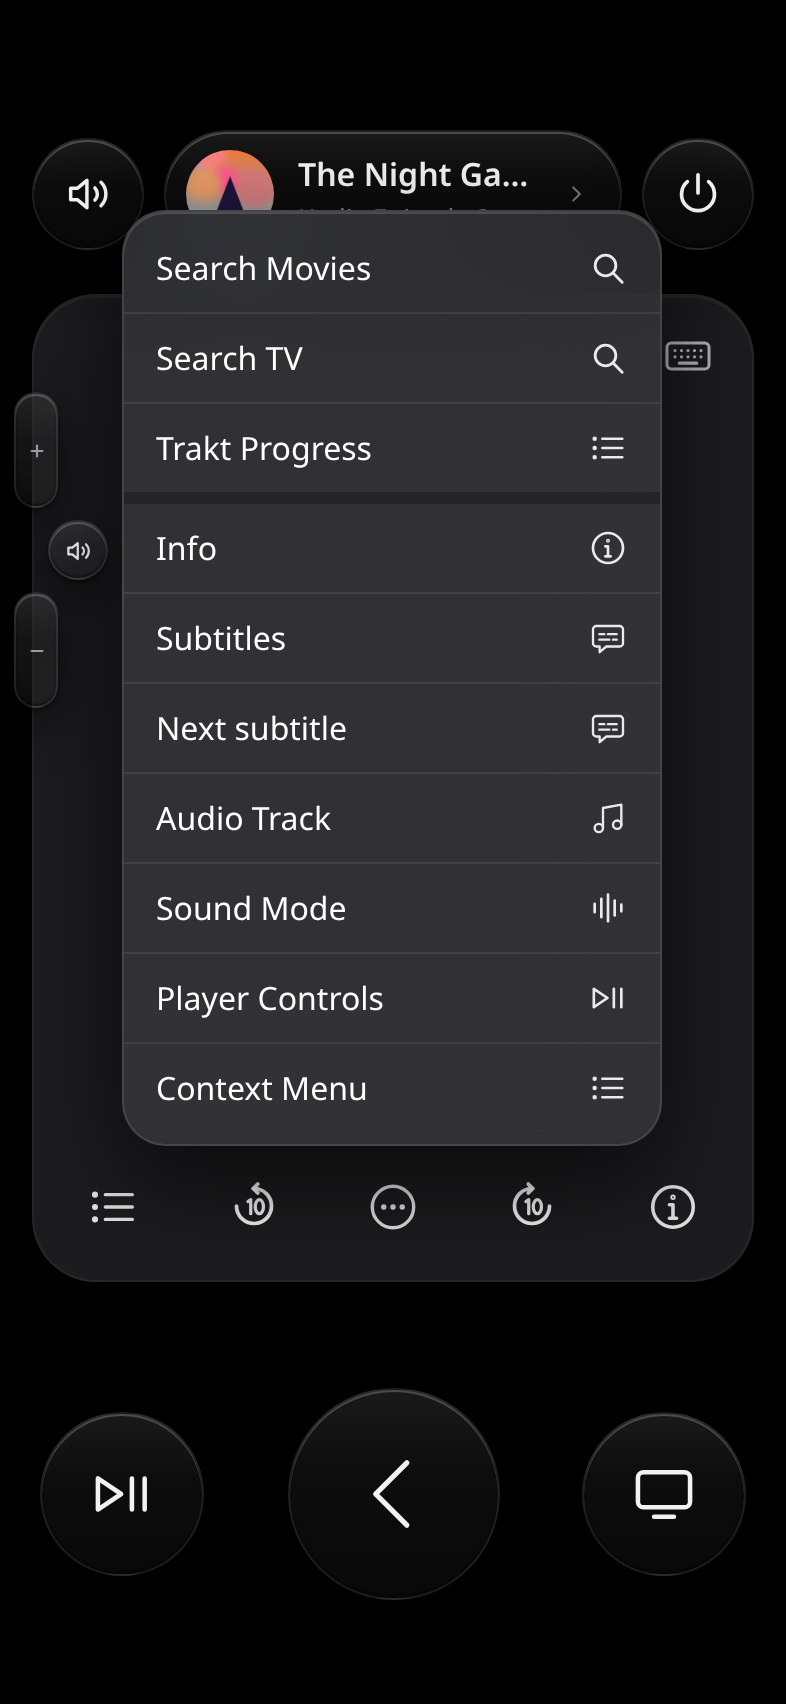
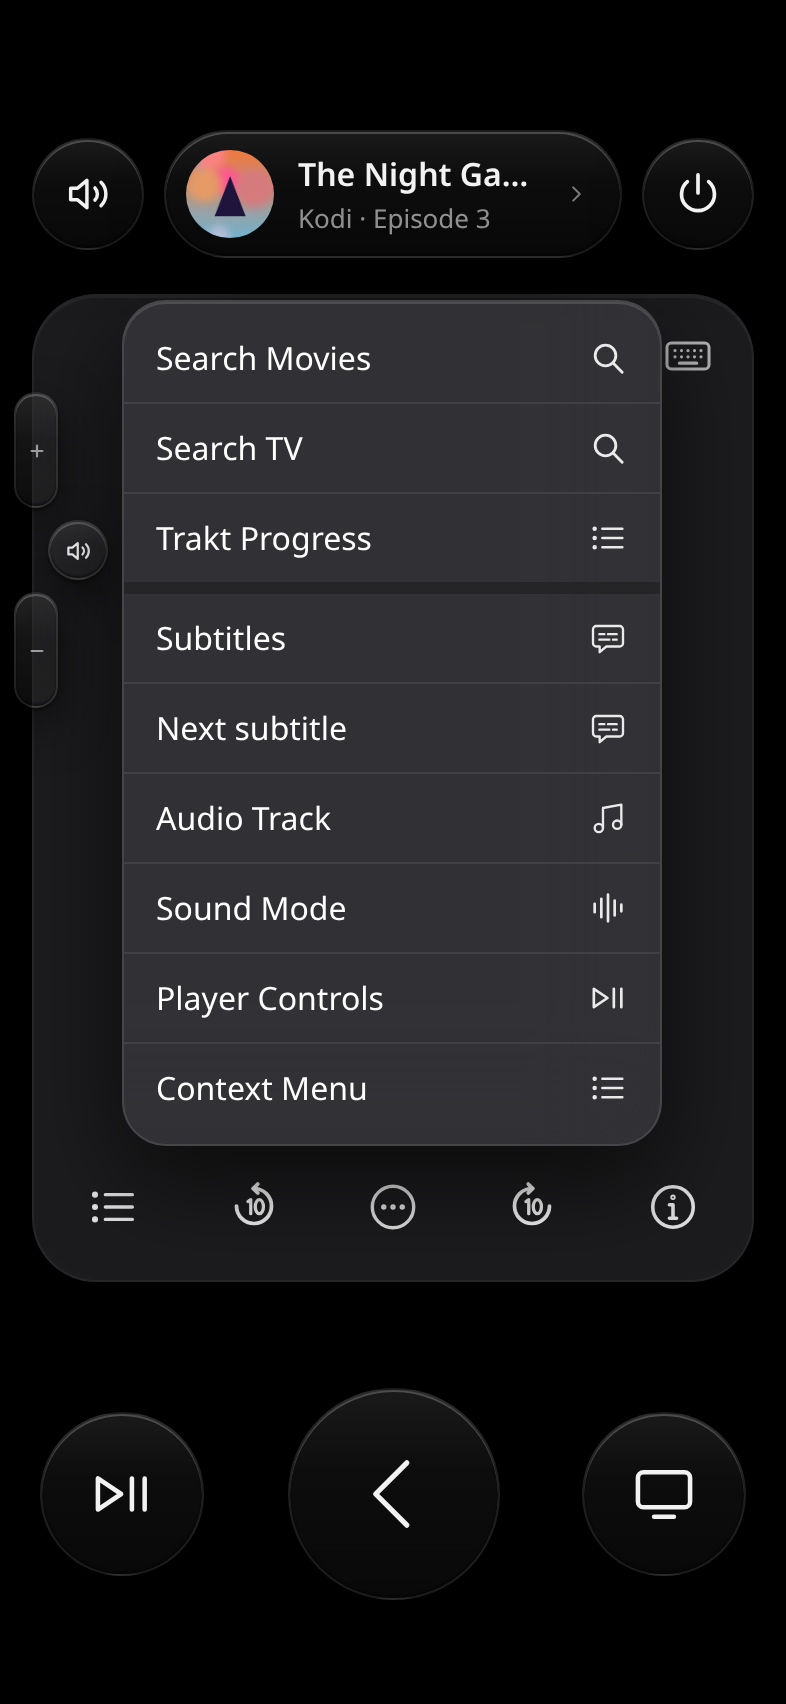
Grok Bot: 0.2.2 - no duplicate Info: while a player shows the bottom-row Info button (no CH, e.g. Kodi) 'info' is left out of its More menu (default or custom more list); CH players (Apple TV, LG) keep Info in More; info_button: false puts it back; tests IB4/IB9-IB11, O1/O3/O16-O18/SC9 updated; READ

diff --git a/test/test.js b/test/test.js
@@ -321,9 +321,10 @@ function ptr(w, el, type, x = 100, y = 100) {
 
   // ---- O: more menu + channels -----------------------------------------------------------
   const ids = (p) => H.moreItems(p, AVRS).map((i) => i.id);
-  check("O1 Kodi default more items", eq(ids(SP({})), ["info", "subtitles", "subtitles_hold", "audio_track", "sound_mode", "osd", "context_menu"]), ids(SP({})));
+  // 0.2.2 (Grok Bot, 11 Oct 2026): Kodi's Info is on the row, so More starts at subtitles
+  check("O1 Kodi default more items (no info: it's the row button)", eq(ids(SP({})), ["subtitles", "subtitles_hold", "audio_track", "sound_mode", "osd", "context_menu"]), ids(SP({})));
   check("O2 sound mode item only when available", !ids(SP({ sound_mode: false })).includes("sound_mode"));
-  check("O3 custom list incl. a service item", eq(H.moreItems(SP({ more: ["info", { name: "Lights", service: "scene.turn_on", target: { entity_id: "scene.movie" } }] }), AVRS).map((i) => [i.name, i.steps]),
+  check("O3 custom list incl. a service item", eq(H.moreItems(SP({ info_button: false, more: ["info", { name: "Lights", service: "scene.turn_on", target: { entity_id: "scene.movie" } }] }), AVRS).map((i) => [i.name, i.steps]),
     [["Info", [["kodi", "call_method", { entity_id: "media_player.kodi", method: "Input.Info" }]]], ["Lights", [["scene", "turn_on", { entity_id: "scene.movie" }]]]]));
   check("O4 more: false", H.moreItems(SP({ more: false }), AVRS).length === 0);
   check("O5 validation of more", bad({ players: [{ entity: "media_player.k", more: [{ name: "x" }] }] }) && bad({ players: [{ entity: "media_player.k", more: "info" }] }));
@@ -355,12 +356,13 @@ function ptr(w, el, type, x = 100, y = 100) {
   // more -> sound mode, more -> info
   m.$(".more").click(); await sleep(10);
   const more = [...m.card.shadowRoot.querySelectorAll(".menu .mi")];
-  check("O16 more menu (Kodi)", eq(more.map((b) => b.textContent), ["Info", "Subtitles", "Next subtitle", "Audio Track", "Sound Mode", "Player Controls", "Context Menu"]), more.map((b) => b.textContent));
-  more[4].click(); await sleep(10);
+  // 0.2.2 (Grok Bot, 11 Oct 2026): no Info in Kodi's More (it's the row button, see IB2/IB4)
+  check("O16 more menu (Kodi, no Info)", eq(more.map((b) => b.textContent), ["Subtitles", "Next subtitle", "Audio Track", "Sound Mode", "Player Controls", "Context Menu"]), more.map((b) => b.textContent));
+  more[3].click(); await sleep(10);
   check("O17 more > Sound Mode opens the sound mode menu", m.$(".menu-bg").classList.contains("show") && m.$(".menu .mt").textContent === "Sound Mode");
   m.$(".menu-bg").click(); m.$(".more").click(); await sleep(10);
   m.card.shadowRoot.querySelectorAll(".menu .mi")[0].click(); await sleep(10);
-  check("O18 more > Info sends Input.Info", eq(m.hass.calls.slice(-1)[0], ["kodi", "call_method", { entity_id: "media_player.kodi", method: "Input.Info" }]));
+  check("O18 more > Subtitles sends showsubtitles", eq(m.hass.calls.slice(-1)[0], ["kodi", "call_method", { entity_id: "media_player.kodi", method: "Input.ExecuteAction", action: "showsubtitles" }]), m.hass.calls.slice(-1));
   ptr(w, m.$(".tab[data-key=\"volume_up\"]"), "pointerdown"); await sleep(700); ptr(w, m.$(".tab[data-key=\"volume_up\"]"), "pointerup");
   check("O19 + tab still repeats while held", m.hass.calls.filter((c) => c[1] === "volume_up").length >= 2);
   m.card.remove();
@@ -782,7 +784,7 @@ function ptr(w, el, type, x = 100, y = 100) {
     let rows = [...f.card.shadowRoot.querySelectorAll(".menu .mi")];
     check("SC9 More menu: shortcuts first (in order), then the player's own items after a section gap",
       eq(rows.slice(0, 4).map((b) => b.querySelector(".nm").textContent), ["Search Films", "Say", "My List", "Two steps"]) &&
-      rows.slice(0, 4).every((b) => b.classList.contains("sc")) && rows[4] && rows[4].classList.contains("grp") && rows[4].querySelector(".nm").textContent === "Info" &&
+      rows.slice(0, 4).every((b) => b.classList.contains("sc")) && rows[4] && rows[4].classList.contains("grp") && rows[4].querySelector(".nm").textContent === "Subtitles" /* 0.2.2: Info is on the row for Kodi */ &&
       rows.filter((b) => b.classList.contains("grp")).length === 1);
     check("SC10 search shortcut shows the search icon; call shortcut has none; mdi without ha-icon -> no broken icon",
       !!rows[1].querySelector(".icon svg") && !rows[2].querySelector(".icon") && !rows[0].querySelector(".icon"));
@@ -854,18 +856,28 @@ function ptr(w, el, type, x = 100, y = 100) {
     const box = f.$(".inner"), kids = [...box.children].filter((el) => !el.classList.contains("gone"));
     check("IB3 Info is the right-hand slot (sources | -10 | more | +10 | info)", kids[kids.length - 1] === ib(), kids.map((k) => k.className));
     f.$(".more").click(); await sleep(10);
-    check("IB4 Kodi More menu still lists Info", [...f.card.shadowRoot.querySelectorAll(".menu .mi .nm")].some((n) => n.textContent === "Info"));
+    // 0.2.2 (Grok Bot, 11 Oct 2026): Info is on the row, so it is no longer in Kodi's More menu (Evan: no duplicate)
+    const kNames = [...f.card.shadowRoot.querySelectorAll(".menu .mi .nm")].map((n) => n.textContent);
+    check("IB4 Kodi More menu has no Info (it's on the row); the rest is still there", !kNames.includes("Info") && kNames.includes("Subtitles") && kNames.includes("Context Menu"), kNames);
     f.card.remove(); w.localStorage.clear();
     // players with CH keep CH in that slot and Info stays in More
     f = mount(w, CONFIG(), states({ "media_player.kodi": { state: "idle" }, "media_player.lr_tv": { attributes: { source: "Apple TV" } } }));
     check("IB5 Apple TV active: CH shown, no row Info", f.card.activeEntity === "media_player.lr_appletv" && !f.$(".ch").classList.contains("gone") && ib().classList.contains("gone"));
+    f.$(".more").click(); await sleep(10);
+    check("IB9 Apple TV (CH, no Info button) keeps Info in More", [...f.card.shadowRoot.querySelectorAll(".menu .mi .nm")].some((n) => n.textContent === "Info"));
     f.card.remove(); w.localStorage.clear();
     const cfgOff = CONFIG(); cfgOff.players[1].info_button = false;
     f = mount(w, cfgOff, states());
     check("IB6 info_button: false hides it on Kodi", f.card.activeEntity === "media_player.kodi" && ib().classList.contains("gone"));
+    f.$(".more").click(); await sleep(10);
+    check("IB10 info_button: false -> Info back in Kodi's More menu", [...f.card.shadowRoot.querySelectorAll(".menu .mi .nm")].some((n) => n.textContent === "Info"));
     f.card.remove(); w.localStorage.clear();
     let threw = false; try { H.normaliseConfig({ players: [{ entity: "media_player.kodi", platform: "kodi", info_button: "yes" }] }); } catch (_) { threw = true; }
     check("IB7 info_button must be true or false", threw);
+    const ids = (p) => H.moreItems(p, {}).map((x) => x.id);
+    check("IB11 moreItems helper: Kodi default + custom list drop info; webOS keeps it; channels: true Kodi keeps it",
+      !ids({ entity: "media_player.k", platform: "kodi" }).includes("info") && eq(ids({ entity: "media_player.k", platform: "kodi", more: ["info", "osd"] }), ["osd"]) &&
+      ids({ entity: "media_player.t", platform: "webostv" }).includes("info") && ids({ entity: "media_player.k", platform: "kodi", channels: true }).includes("info"));
     check("IB8 helper: Kodi yes, webOS (CH) no, generic without remote no",
       H.hasInfoButton({ entity: "media_player.k", platform: "kodi" }, {}) && !H.hasInfoButton({ entity: "media_player.t", platform: "webostv" }, {}) &&
       !H.hasInfoButton({ entity: "media_player.g", platform: "generic" }, {}));

diff --git a/glass-remote-card.js b/glass-remote-card.js
@@ -65,11 +65,14 @@
  * in their More menu (and in Kodi's too). `info_button: false` on a player hides it. Why: Evan: "We've lost the
  * info button?". The Remote dashboard had -10 | info | subtitles | +10 in the pad before it moved to this card;
  * 0.1.1's bottom row put Info inside More, so on Kodi it took two taps and the right-hand slot sat empty.
+ * 0.2.2 (Grok Bot, 11 Oct 2026): no duplicate Info. What: while a player shows the bottom-row Info button,
+ * "info" is left out of that player's More menu (default or custom `more:` list). Players with CH (no Info
+ * button) keep Info in More. Why: Evan: "Good we don't need info in the menu now then".
  */
 (() => {
   "use strict";
 
-  const VERSION = "0.2.1";
+  const VERSION = "0.2.2";
   const TAG = "glass-remote-card";
   const PICK_KEY = "glass-remote-card:pick:";
 
@@ -454,8 +457,11 @@
     if (p.more === false) return [];
     const list = Array.isArray(p.more) ? p.more : PLATFORMS[p.platform].more || [];
     const out = [];
+    // 0.2.2 (Grok Bot, 11 Oct 2026): the row's Info button replaces More > Info for this player (no duplicate)
+    const infoOnRow = hasInfoButton(p, states || {});
     list.forEach((m, i) => {
       if (typeof m === "string") {
+        if (m === "info" && infoOnRow) return; // 0.2.2
         const [name, ic] = MORE_LABELS[m] || [m.replace(/_/g, " ").replace(/^./, (c) => c.toUpperCase()), null];
         if (m === "sound_mode" || m === "sources") {
           if ((m === "sound_mode" ? soundModeMenu : sourceMenu)(p, states)) out.push({ id: m, name, icon: ic, open: m });

diff --git a/README.md b/README.md
@@ -35,9 +35,9 @@ One card drives Kodi, LG webOS TVs, devices from Home Assistant's Apple TV integ
 - **Now-playing pill.** Shows artwork, title and `Device · episode/app/state`. Tap it to open the device picker, which is built in (no browser_mod).
 - **Touchpad.** Swipe for arrows; keep holding after a swipe to keep moving. Tap to select, long-press for the context menu.
 - **Buttons:**
-  - A bottom row inside the pad: **sources list | -10 | ⋯ more | +10 | CH**. Tap **CH** to open the channel stack (up chevron, CH, down chevron). Tap CH again to close it, or it closes by itself after 5 s. CH only shows on devices with channel keys. On devices without them (Kodi by default), that slot is an **Info** (i) button instead.
+  - A bottom row inside the pad: **sources list | -10 | ⋯ more | +10 | CH**. Tap **CH** to open the channel stack (up chevron, CH, down chevron). Tap CH again to close it, or it closes by itself after 5 s. CH only shows on devices with channel keys. On devices without them (Kodi by default), that slot is an **Info** (i) button instead, and Info is then left out of that device's More menu.
   - **Sources** opens a glass picker with the player's sources, or those of your receiver or TV. The current source is ticked.
-  - **More (⋯)** holds info, subtitles, sound mode and each platform's extras.
+  - **More (⋯)** holds info (unless the device has the Info button on the row), subtitles, sound mode and each platform's extras.
   - **Shortcuts** you define per player (an add-on search, a favourite list, a scene) appear as the first section of the More menu while that player is active. Search shortcuts ask for text in the typing sheet first. See [Shortcuts](#shortcuts).
   - Play/pause, a big Back button and Home underneath. Long-press Back for the top menu and Home for the platform's extra action.
 - **Volume tabs on the pad's edge.** Holding a tab repeats. Press and hold the speaker badge between the tabs to pick the receiver's **sound mode**. Volume can go to a receiver, with a fallback when the receiver is off, or through the player's `remote` entity (HDMI-CEC/IR).
@@ -166,7 +166,7 @@ source_map:                               # optional: follow the TV's input
 | `more` | Items in the ⋯ menu, or `false` to hide it. |
 | `shortcuts` | Your own service calls, shown as the first section of the ⋯ menu while this player is active. A search shortcut asks for text first. See [Shortcuts](#shortcuts). |
 | `channels` | Show the CH up/down control. |
-| `info_button` | `true` by default: an Info (i) button in the bottom row's right-hand slot when the player has no CH control. `false` hides it (Info stays in More). |
+| `info_button` | `true` by default: an Info (i) button in the bottom row's right-hand slot when the player has no CH control. While it shows, `info` is left out of that player's More menu. `false` hides it and puts Info back in More. |
 | `keyboard_poll` | Kodi: how often (ms) to check whether Kodi's on-screen keyboard is open. Default `2000`; `0` turns it off. Also settable on the card. See [Kodi keyboard detection](#kodi-keyboard-detection). |
 | `keyboard_poll_during_video` | Kodi: keep checking while a video plays. Default `false`. |
 | `actions` | Override any button: `up`, `down`, `left`, `right`, `select`, `select_hold`, `back`, `back_hold`, `home`, `home_hold`, `play_pause`, `skip_back`, `skip_fwd`, `info`, `subtitles`, `channel_up`, `channel_down`, `power`, `volume_up`, `volume_down`, `mute`, `text`. Each takes `{service, data, target}` or a list of them. In `text`, the value `$text` is replaced with what you typed. |
@@ -236,7 +236,7 @@ Press and hold the small speaker badge between the volume tabs. A glass menu ope
 
 ### More (⋯)
 
-The defaults depend on the platform. Items that don't do anything on the player are left out.
+The defaults depend on the platform. Items that don't do anything on the player are left out. `info` is also left out while the player shows the Info (i) button on the bottom row (no CH control, e.g. Kodi), so it isn't there twice.
 
 | `platform` | Default `more` |
 |---|---|

diff --git a/CHANGELOG.md b/CHANGELOG.md
@@ -4,6 +4,11 @@ All notable changes to this project are documented here. The format follows
 [Keep a Changelog](https://keepachangelog.com/en/1.1.0/) and the project uses
 [Semantic Versioning](https://semver.org/).
 
+## [0.2.2] - 2026-10-11
+
+### Changed
+- **No duplicate Info.** While a player shows the Info (i) button on the bottom row (players without CH, such as Kodi), Info is left out of that player's More (⋯) menu. This applies to the default list and to a custom `more:` list. Players with CH (Apple TV, LG webOS) have no Info button, so they keep Info in More. `info_button: false` puts it back in More.
+
 ## [0.2.1] - 2026-10-11
 
 ### Fixed
